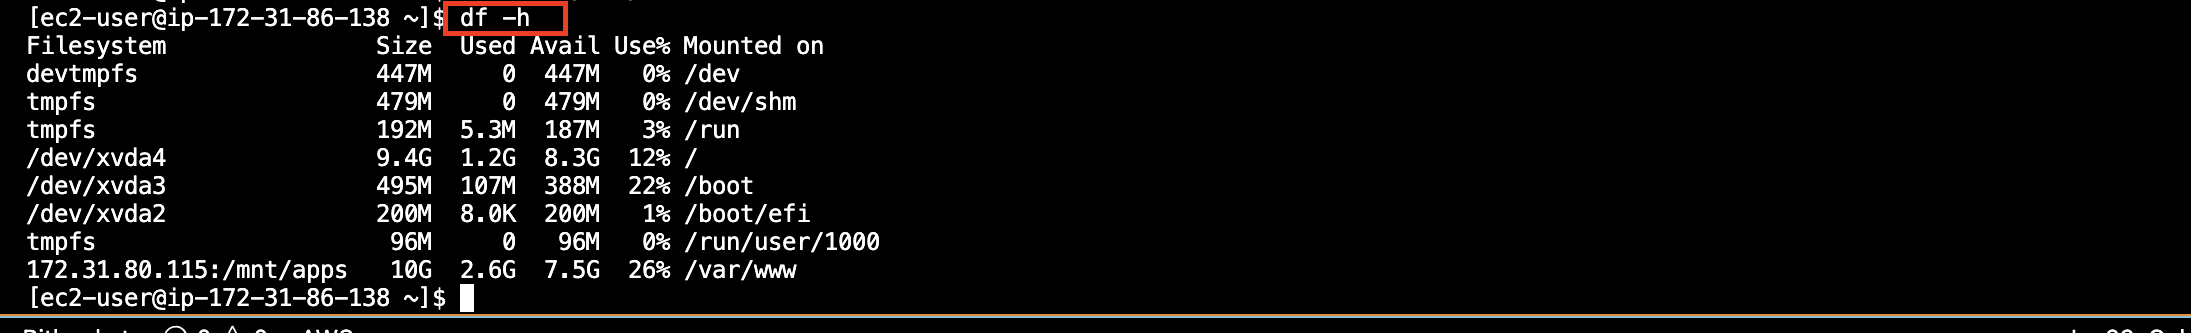
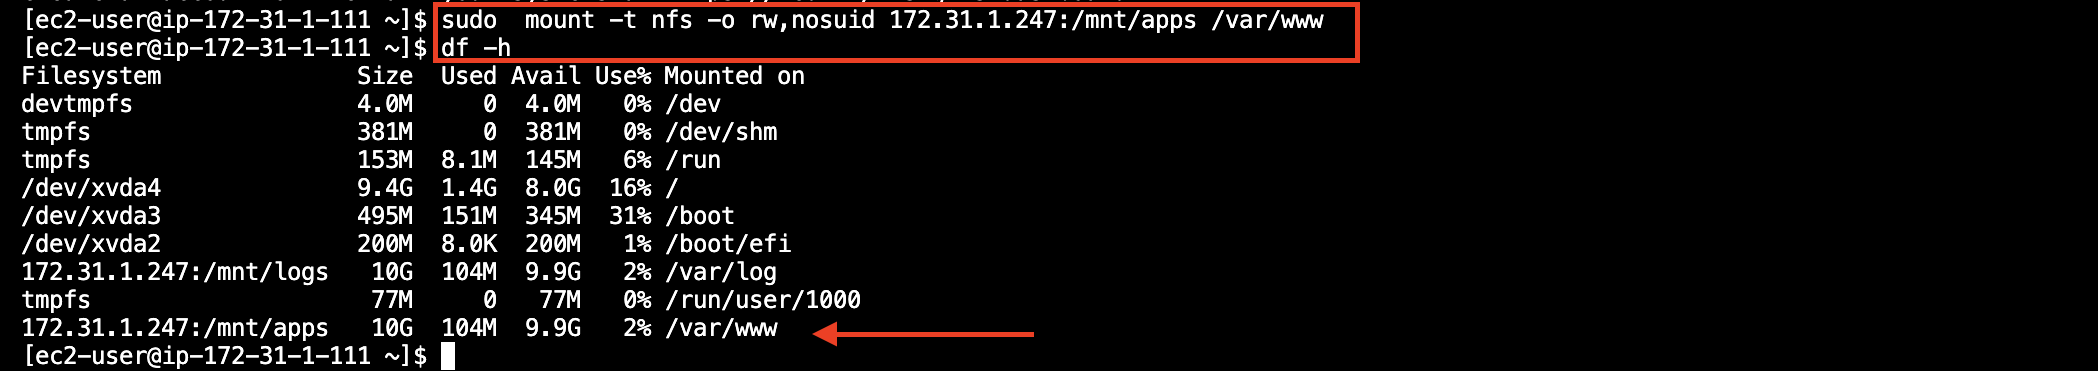
project 8

Changed region(s): [[0.0, 0.0, 1.0, 1.0], [0.9604, 0.991, 1.0, 1.0]]

diff --git a/08-devops-tooling-website/README.md b/08-devops-tooling-website/README.md
@@ -1,17 +1,101 @@
-# DevOps Tooling Website Solution
-Some of the developers from Nautilus project team have asked for SFTP access to at least one of the app server in Stratos DC. After going through the requirements, the system admins team has decided to configure the SFTP server on App Server 2 server in Stratos Datacenter. Please configure it as per the following instructions:
+# DEVOPS TOOLING WEBSITE SOLUTION
+
+## Summary
+Implement a tooling website solution which makes access to DevOps tools within the corporate infrastructure easily accessible.
+
+## Step 1 – Prepare NFS Server
+
+1. Using an EC2 instance with RHEL Linux 8 Operating System
+![ec2 instance](img/1.png)
+
+2. Configuring LVM on the server
+
+3. Install NFS server on the instance 
+```
+sudo yum -y update
+sudo yum install nfs-utils -y
+sudo systemctl start nfs-server.service
+sudo systemctl enable nfs-server.service
+sudo systemctl status nfs-server.service
+```
+![nfs-server](img/3.png)
+
+4. Set permissions to allow to web servers, read, write and execute files on NFS
+```
+sudo chown -R nobody: /mnt/apps
+sudo chown -R nobody: /mnt/logs
+sudo chown -R nobody: /mnt/opt
+
+sudo chmod -R 777 /mnt/apps
+sudo chmod -R 777 /mnt/logs
+sudo chmod -R 777 /mnt/opt
+
+sudo systemctl restart nfs-server.service
+```
+5. Configure access to NFS for clients within the same subnet (example of Subnet CIDR – 172.31.32.0/20 ):
+
+![cidr](img/5.png)
+```
+sudo vi /etc/exports
+
+/mnt/apps <Subnet-CIDR>(rw,sync,no_all_squash,no_root_squash)
+/mnt/logs <Subnet-CIDR>(rw,sync,no_all_squash,no_root_squash)
+/mnt/opt <Subnet-CIDR>(rw,sync,no_all_squash,no_root_squash)
+```
+`sudo exportfs -arv`
+![exports](img/4.png)
 
 
+6. Open the port being used by NFS
+![port](img/6.png)
 
-a. Create an SFTP user mark and set its password to Rc5C9EyvbU.
+7. Also, Open ports  TCP 111, UDP 111, UDP 2049 to make NFS server to be accessible from the client server
+![port](img/7.png)
 
-b. Password authentication should be enabled for this user.
+## Step 2 — Congigure The Database Server
+1. Install the DB server, create a database called tooling and a database user called webaccess
 
-c. Set its ChrootDirectory to /var/www/webapp.
+2. Grant permission to webaccess user on tooling database to do anything only from the webservers subnet cidr
+![DB](img/8.png)
 
-d. SFTP user should only be allowed to make SFTP connections.
+## Step 3 — Prepare the Web Servers
+1. A new EC2 instance which will act as the client 
+![client](img/9.png)
 
+2. Install NFS client
+`sudo yum install nfs-utils nfs4-acl-tools -y`
 
+3. Mount /var/www/ and target the NFS server’s export for apps
+```
+sudo mkdir /var/www
+sudo mount -t nfs -o rw,nosuid <NFS-Server-Private-IP-Address>:/mnt/apps /var/www
+```
+![client](img/10.png)
+
+4. Persist the change by adding the fllowing line in the `/etc/fstab` file
+`<NFS-Server-Private-IP-Address>:/mnt/apps /var/www nfs defaults 0 0`
+![persist](img/11.png)
+
+5. Install Apache and PHP
+```
+sudo yum install httpd -y
+
+sudo dnf install https://dl.fedoraproject.org/pub/epel/epel-release-latest-8.noarch.rpm
+
+sudo dnf install dnf-utils http://rpms.remirepo.net/enterprise/remi-release-8.rpm
+
+sudo dnf module reset php
+
+sudo dnf module enable php:remi-7.4
+
+sudo dnf install php php-opcache php-gd php-curl php-mysqlnd
+
+sudo systemctl start php-fpm
+
+sudo systemctl enable php-fpm
+
+setsebool -P httpd_execmem 1
+```
 
 ```
 [ec2-user@ip-172-31-1-111 ~]$ systemctl status php-fpm.service
@@ -34,3 +118,5 @@ d. SFTP user should only be allowed to make SFTP connections.
 Jan 04 08:39:35 ip-172-31-1-111.ec2.internal systemd[1]: Starting The PHP FastCGI Process Manager...
 Jan 04 08:39:35 ip-172-31-1-111.ec2.internal systemd[1]: Started The PHP FastCGI Process Manager.
 ```
+
+
